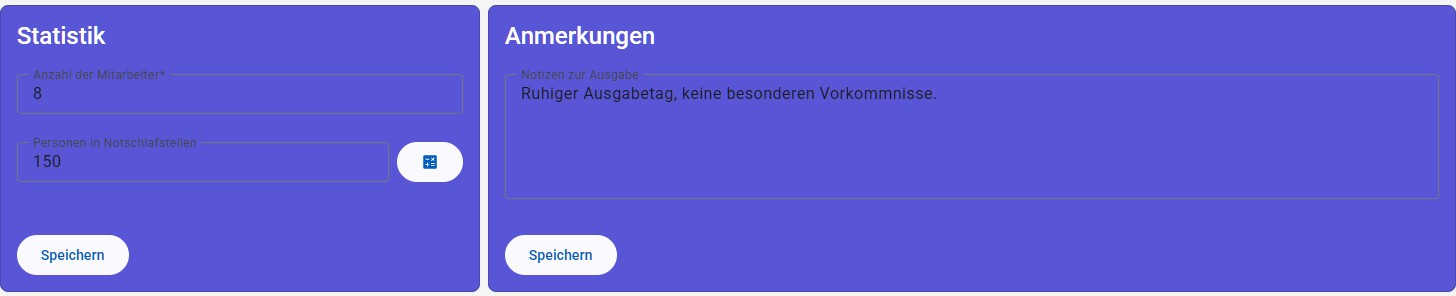
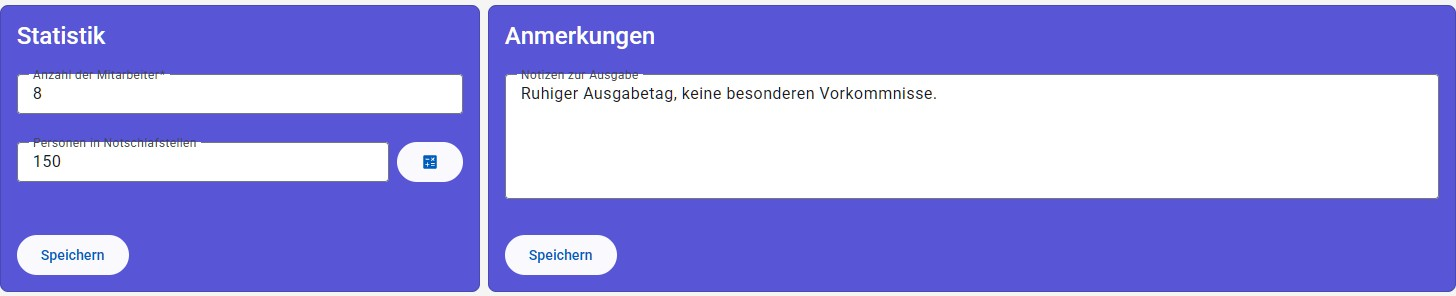
fix(dashboard): restore the white field background lost with outline appearance
Dropping appearance="fill" in the previous commit fixed the floating label,
but outline fields have no background of their own - on this card's purple
background they blended in with nothing to mark them as input surfaces.
Gives the Statistik and Anmerkungen fields back a white background via
their own SCSS, keeping the outline appearance (and its working label).

Regenerates the userguide screenshot again to match.

diff --git a/frontend/src/main/webapp/src/app/modules/dashboard/components/distribution-notes-input/distribution-notes-input.component.scss b/frontend/src/main/webapp/src/app/modules/dashboard/components/distribution-notes-input/distribution-notes-input.component.scss
@@ -4,6 +4,16 @@
 // and the textarea, each of them content-sized, so every one of them has to be told to fill or the
 // height stops at the outermost.
 :host ::ng-deep {
+  // `appearance="outline"` (the app-wide default, kept here for its permanent floating label -
+  // see the template) has no field background of its own, unlike `appearance="fill"`: on this
+  // card's purple background the field would otherwise blend in with nothing to mark it as an
+  // input surface. `border-radius` matches the notched outline's own corners so the fill doesn't
+  // poke out past the border.
+  .mat-mdc-text-field-wrapper {
+    background-color: white;
+    border-radius: 4px;
+  }
+
   .mat-mdc-text-field-wrapper,
   .mat-mdc-form-field-flex,
   .mat-mdc-form-field-infix {

diff --git a/frontend/src/main/webapp/src/app/modules/dashboard/components/distribution-statistics-input/distribution-statistics-input.component.scss b/frontend/src/main/webapp/src/app/modules/dashboard/components/distribution-statistics-input/distribution-statistics-input.component.scss
@@ -1,0 +1,9 @@
+// `appearance="outline"` (the app-wide default, kept here for its permanent floating label - see
+// the template) has no field background of its own, unlike `appearance="fill"`: on this card's
+// purple background the field would otherwise blend in with nothing to mark it as an input
+// surface. `border-radius` matches the notched outline's own corners so the fill doesn't poke out
+// past the border.
+:host ::ng-deep .mat-mdc-text-field-wrapper {
+  background-color: white;
+  border-radius: 4px;
+}

diff --git a/frontend/src/main/webapp/src/app/modules/dashboard/components/distribution-statistics-input/distribution-statistics-input.component.ts b/frontend/src/main/webapp/src/app/modules/dashboard/components/distribution-statistics-input/distribution-statistics-input.component.ts
@@ -16,6 +16,7 @@ import {TafelInfoTooltipComponent} from '../../../../common/components/tafel-inf
 @Component({
   selector: 'tafel-distribution-statistics-input',
   templateUrl: 'distribution-statistics-input.component.html',
+  styleUrl: 'distribution-statistics-input.component.scss',
   imports: [
     MatCard,
     MatCardHeader,
